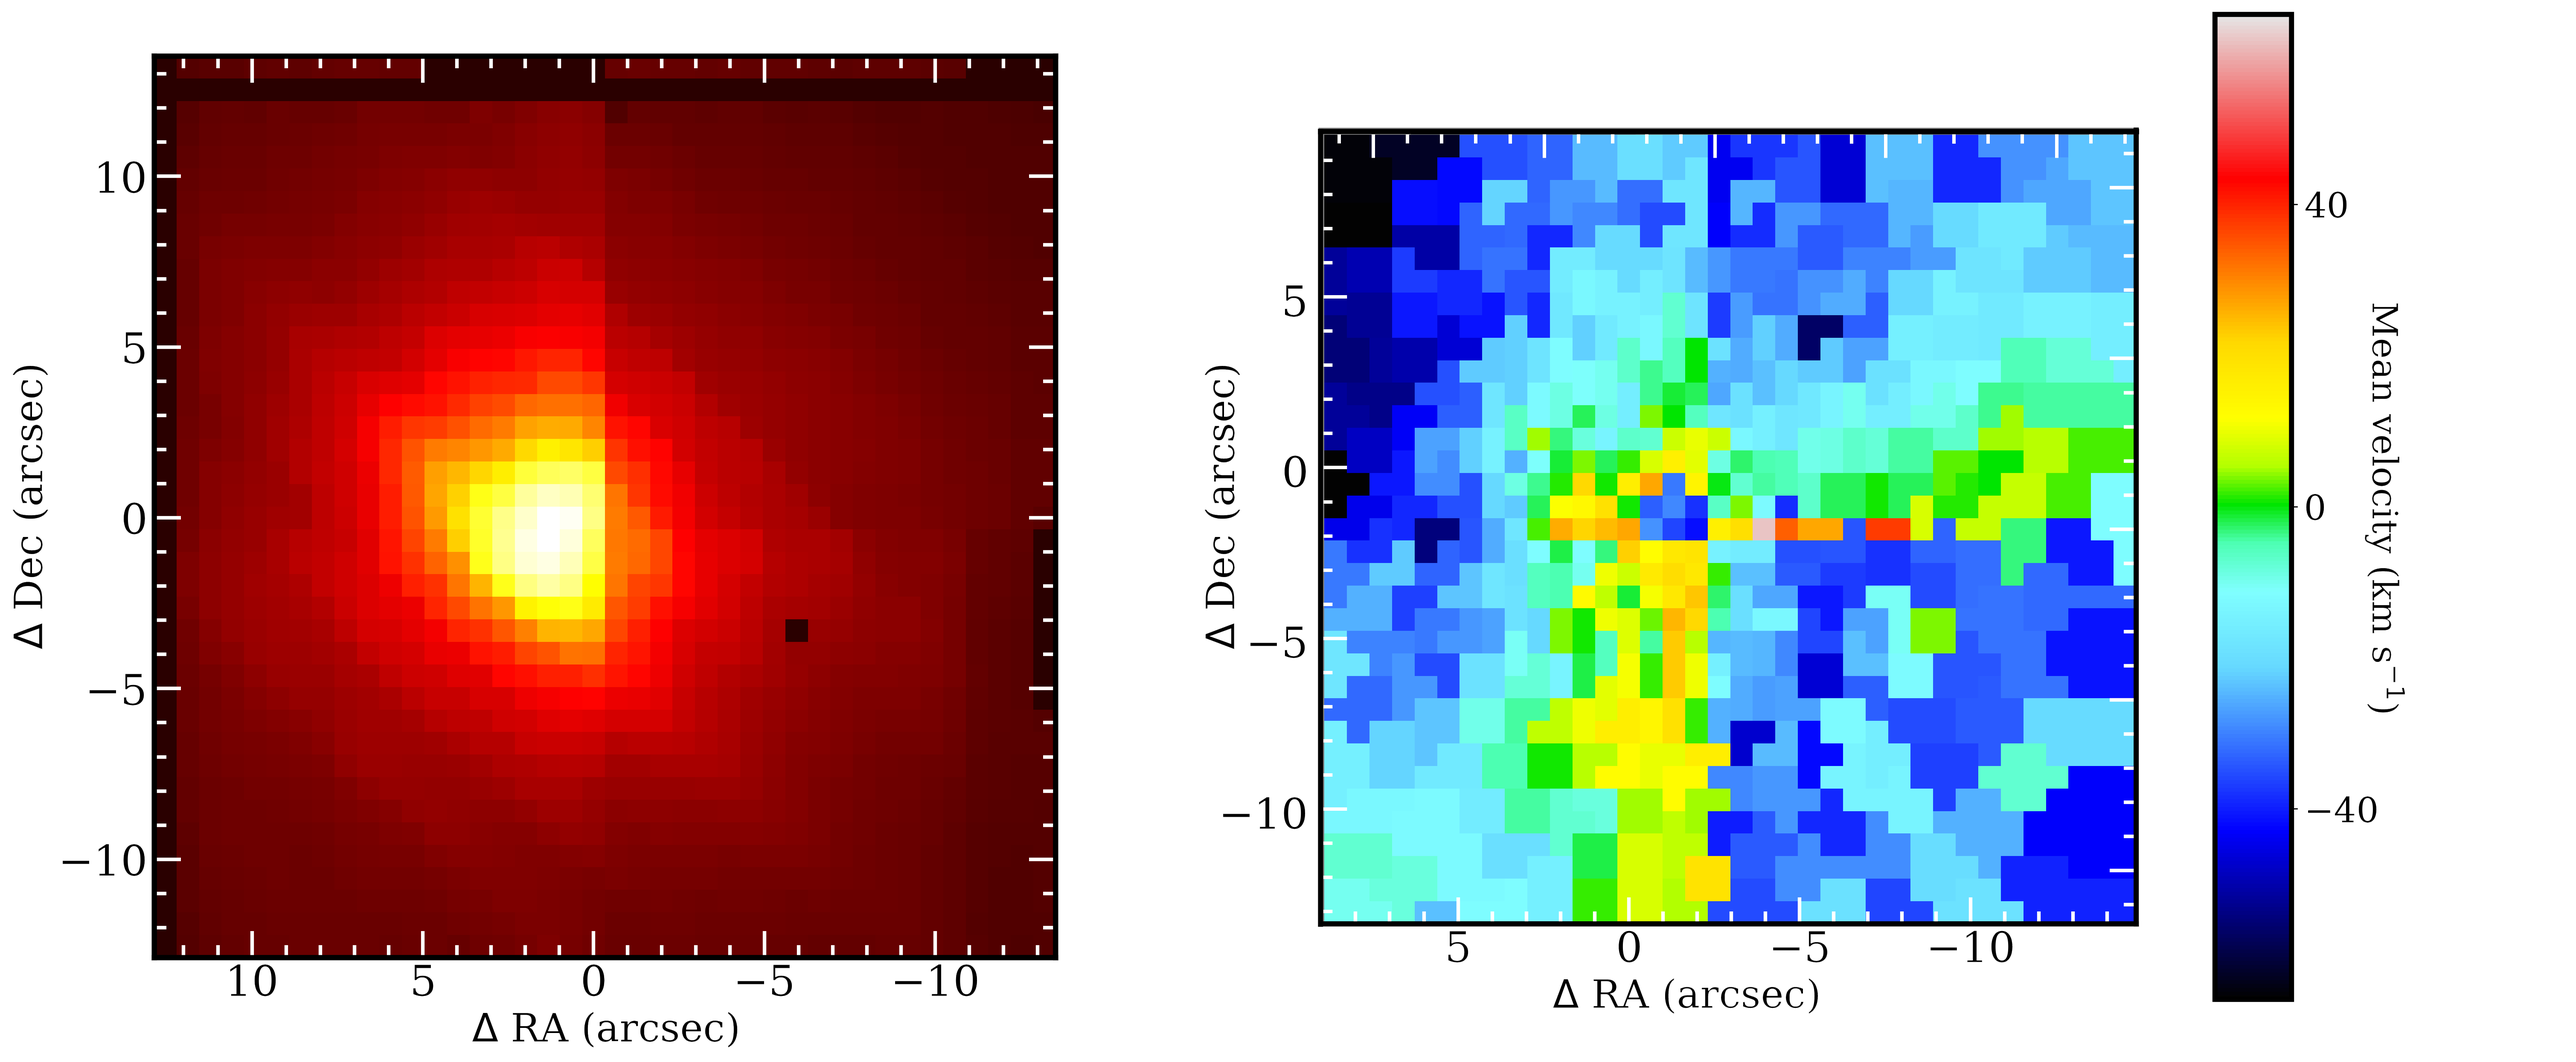
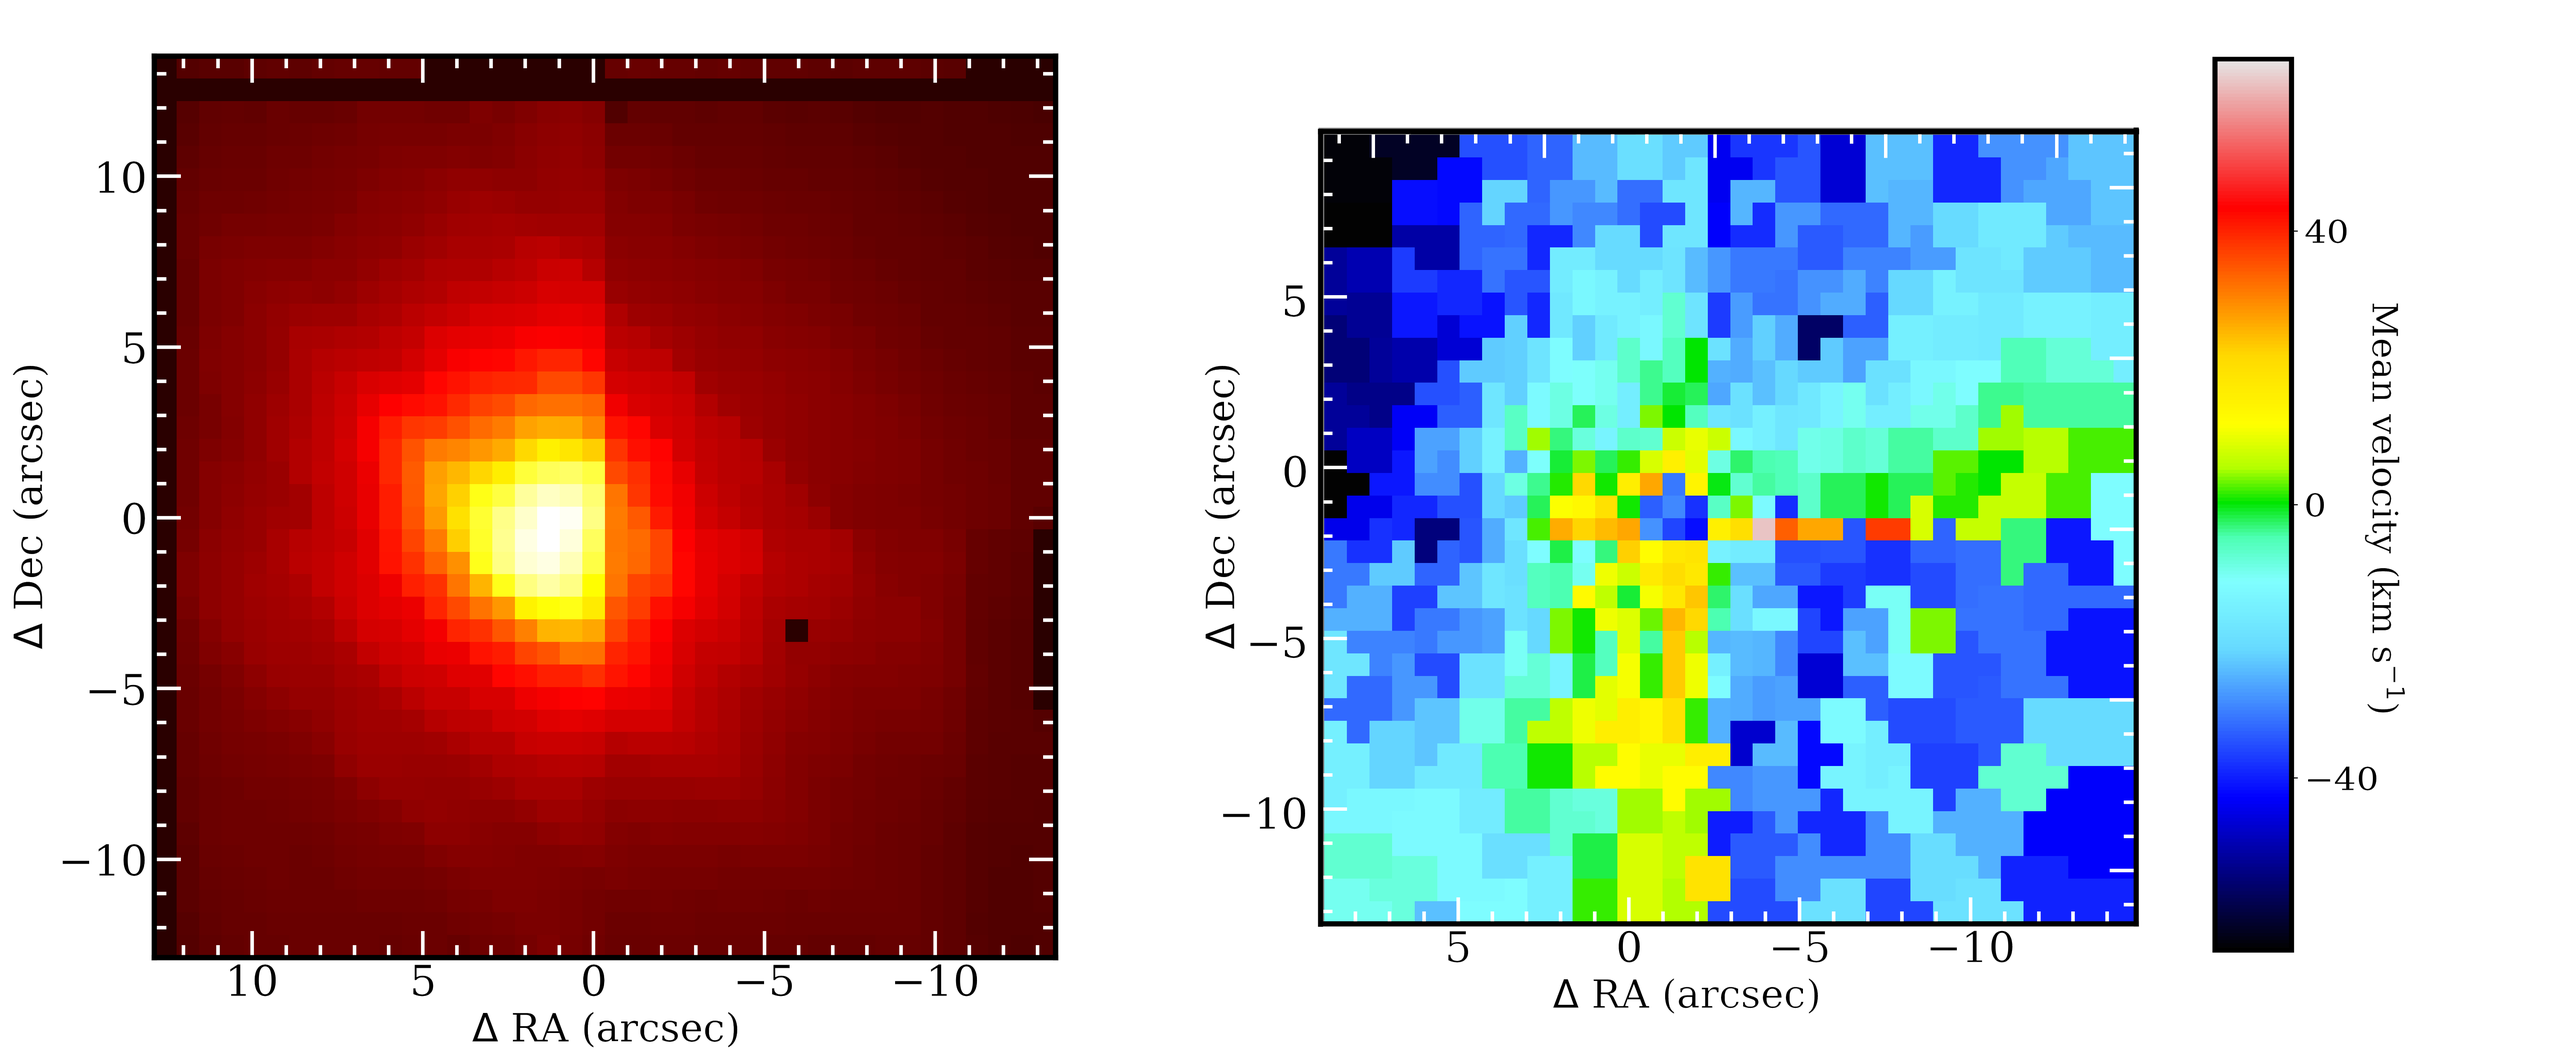
EoDC: Futher work to Chapter 2.
On branch master
 Changes to be committed:
	modified:   chapter2/MUSE_NGC1399_vel.png
	modified:   chapter2/P3D_NGC1399.png
	modified:   chapter2/VIMOS_NGC1399_vel.png
	modified:   chapter2/chapter2.tex
	modified:   chapter2/egSNR.png
	modified:   chapter2/produce_plots.py
	modified:   chapter2/produce_plots_muse.py
	new file:   chapter2/quadrants.png

Changed region(s): [[0.8407, 0.6185, 0.9341, 0.9586], [0.8407, 0.0, 0.9029, 0.3092]]

diff --git a/chapter2/chapter2.tex b/chapter2/chapter2.tex
@@ -11,7 +11,7 @@ This chapter presents our observations of the Southern Sample (as laid out in Se
 
 		\begin{figure}
 			\centering
-			\includegraphics[width=0.99\textwidth]{chapter2/quadrants.png}
+			\includegraphics[width=0.4\textwidth]{chapter2/quadrants.png}
 			\caption[Schematic of the VIMOS quadrants]{A Schematic of the VIMOS quadrants.}
 			\label{fig:quadrants}
 		\end{figure}
@@ -127,7 +127,7 @@ This chapter presents our observations of the Southern Sample (as laid out in Se
 
 	\subsection{Spatial Binning}
 		\label{subsec:Binning}
-		Given that galaxies are brightest at their centres and fade away radially, and that the noise (assumed to be Poisson dominated) scales as the square root of the signal, the S/N of the galaxy spectra will also be highest at the galaxy centres, decreasing with increasing radius. In the outer regions of galaxies, the S/N becomes too low to extract meaningful information from the spectra. Because of this, we spatially bin the spectra to a fixed target S/N (increasing a bin's size until it reaches the required S/N). This is performed using the adaptive Voronoi binning routine\footnote{http://www-astro.physics.ox.ac.uk/~mxc/software/} of \citet{Cappellari2003}. For our purposes, we define the `signal' and `noise' of each spaxel as the median value of its spectrum and noise spectrum, respectively. We require a S/N of 30 for all VIMOS datacubes and 50 for the IC 1459 and IC 4296 MUSE datacubes. The NGC 1316 and NGC 1399 MUSE datacubes were binned to a S/N of 50 for the analysis of the stellar kinematics and 100 for the analysis of the emission line kinematics and stellar populations. These MUSE datacubes have different S/N thresholds due to the extra (pseudo-)sky subtraction applied to the IC 1459 and IC 4296 datacubes, that were successful at removing artefacts from the spectra (thus allowing us to retain a higher level of spatial information for these two galaxies). The remaining artefacts in NGC 1316 and NGC 1399 datacubes did not seem to affect the analysis of the stellar kinematics, but did affect the emission line fits, so we enforced a higher S/N threshold for the emission line analysis and where careful subtraction of the emission lines is important (i.e.\ in the analysis of the stellar populations). 
+		Given that galaxies are brightest at their centres and fade away radially, and that the noise (assumed to be Poisson dominated) scales as the square root of the signal, the S/N of the galaxy spectra will also be highest at the galaxy centres, decreasing with increasing radius. In the outer regions of galaxies, the S/N becomes too low to extract meaningful information from the spectra. Because of this, we spatially bin the spectra to a fixed target S/N (increasing a bin's size until it reaches the required S/N). This is performed using the adaptive Voronoi binning routine\footnote{http://www-astro.physics.ox.ac.uk/~mxc/software/} of \citet{Cappellari2003}. For our purposes, we define the `signal' and `noise' of each spaxel as the median value of its spectrum and noise spectrum, respectively. We require a S/N of 30 for all VIMOS datacubes and 50 for the IC 1459 and IC 4296 MUSE datacubes. The NGC 1316 and NGC 1399 MUSE datacubes were binned to a S/N of 50 for the analysis of the stellar kinematics and 100 for the analysis of the emission line kinematics and stellar populations. These target S/N were chosen in order to be as low as possible, while still returning meaningful information (as assessed by eye). The NGC 1316 and NGC 1399 MUSE datacubes have different S/N thresholds due to the extra (pseudo-)sky subtraction applied to the IC 1459 and IC 4296 datacubes, that were successful at removing artefacts from the spectra (thus allowing us to retain a higher level of spatial information for these two galaxies). The remaining artefacts in NGC 1316 and NGC 1399 datacubes did not seem to affect the analysis of the stellar kinematics, but did affect the emission line fits, so we enforced a higher S/N threshold for the emission line analysis and where careful subtraction of the emission lines is important (i.e.\ in the analysis of the stellar populations). 
 
 		Figure \ref{fig:egSNR} shows an example of the Voronoi bins. Concentric rings can clearly be seen around the centre of the galaxy, as bins with a S/N just below the target are increased in size by a single spaxel, resulting in a final S/N well over the target. Spaxels within the first ring are not binned and can have arbitrarily high S/N (dictated by the galaxy surface-brightness profile), while bins outside the central rings are composed of many spaxels and naturally have S/Ns clustered around the target value.
 

diff --git a/chapter2/produce_plots.py b/chapter2/produce_plots.py
@@ -20,7 +20,7 @@ out_dir = '%s/Documents/thesis/chapter2' % (cc.home_dir)
 
 
 if True:
-	Prefig(size=(10,10))
+	Prefig(size=(8,8))
 	fig, ax = plt.subplots()#, sharex=True, sharey=True)
 
 
@@ -31,11 +31,12 @@ if True:
 	data_file =  "%s/galaxies.txt" % (vin_dir)
 	file_headings = np.loadtxt(data_file, dtype=str)[0]
 	col = np.where(file_headings=='SN_%s' % (opt))[0][0]
-	SN_target_gals = np.loadtxt(data_file, 
-		unpack=True, skiprows=1, usecols=(col,))
+	x_gals, y_gals, SN_target_gals = np.loadtxt(data_file, 
+		unpack=True, skiprows=1, usecols=(4,5,col,), dtype='int,int,float')
 	galaxy_gals = np.loadtxt(data_file, skiprows=1, usecols=(0,),dtype=str)
 	i_gal = np.where(galaxy_gals==galaxy)[0][0]
 	SN_target=SN_target_gals[i_gal]
+	center = (x_gals[i_gal], y_gals[i_gal])
 
 
 	vin_dir += '/%s/%s' % (galaxy, opt) 
@@ -59,19 +60,21 @@ if True:
 		D.xBar, D.yBar, D.components['stellar'].plot['vel'], header, 
 		vmin=vmin_vel, vmax=vmax_vel, cmap=sauron, signal_noise=D.SNRatio, 
 		colorbar=True, label=r'Mean velocity (km s$^{-1}$)', 
-		signal_noise_target=SN_target, ax=ax, galaxy='VIMOS', center=center)
+		signal_noise_target=SN_target, ax=ax, galaxy='VIMOS', center=center,
+		galaxy_labelcolor='w')
 
 
 	ax.ax_dis.tick_params(top=True, bottom=True, left=True, 
 		right=True, direction='in', which='major', length=15,
-		width=2, labelsize='large')
+		width=2, labelsize='large', color='w')
 	ax.ax_dis.tick_params(top=True, bottom=True, left=True, 
 		right=True, direction='in', which='minor', length=7,
-		width=2)
+		width=2, color='w')
 	ax.ax_dis.xaxis.label.set_size(22)
 	ax.ax_dis.yaxis.label.set_size(22)
 
-	fig.savefig('%s/VIMOS_NGC1399_vel.png' % (out_dir), bbox_inches='tight')
+	fig.savefig('%s/VIMOS_NGC1399_vel.png' % (out_dir), bbox_inches='tight',
+		dpi=120)
 	plt.close()
 
 
@@ -137,6 +140,7 @@ if False:
 
 	# _new added to file name so that photoshoped version is not accidentally 
 	# overwritten
-	fig.savefig('%s/P3D_NGC1399_new.png' % (out_dir), bbox_inches='tight')
+	fig.savefig('%s/P3D_NGC1399_new.png' % (out_dir), bbox_inches='tight',
+		dpi=120)
 
 

diff --git a/chapter2/produce_plots_muse.py b/chapter2/produce_plots_muse.py
@@ -23,7 +23,7 @@ opt = 'kin'
 out_dir = '%s/Documents/thesis/chapter2' % (cc.home_dir)
 
 if True:
-	Prefig(size=(10,10))
+	Prefig(size=(8,8))
 	fig, ax = plt.subplots()#, sharex=True, sharey=True)
 	print galaxy
 
@@ -59,7 +59,8 @@ if True:
 		D.xBar, D.yBar, D.components['stellar'].plot['vel']-20, header, 
 		vmin=vmin_vel+30, vmax=vmax_vel-30, cmap=sauron, signal_noise=D.SNRatio, 
 		colorbar=True, label=r'Mean velocity (km s$^{-1}$)', 
-		signal_noise_target=SN_target, ax=ax, galaxy='MUSE')
+		signal_noise_target=SN_target, ax=ax, galaxy='MUSE', 
+		galaxy_labelcolor='w')
 
 
 
